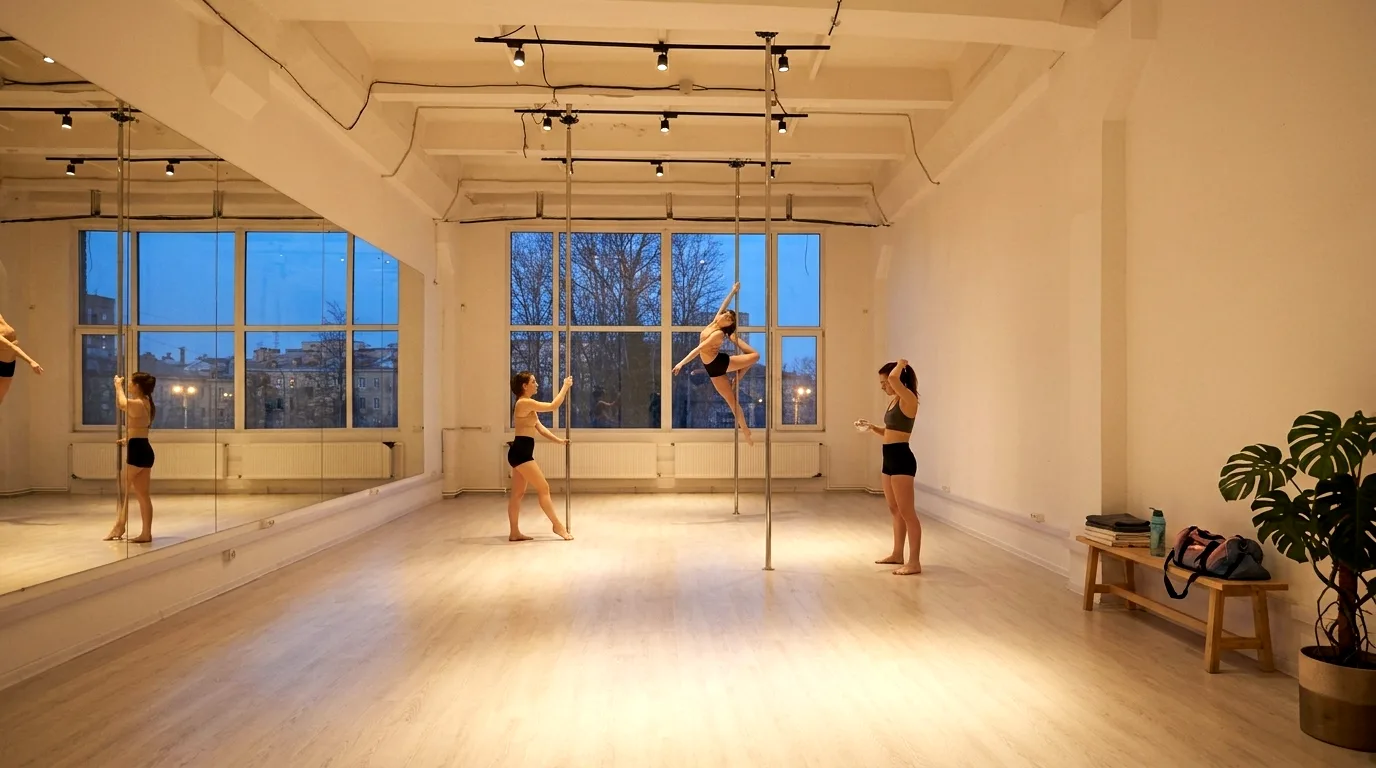
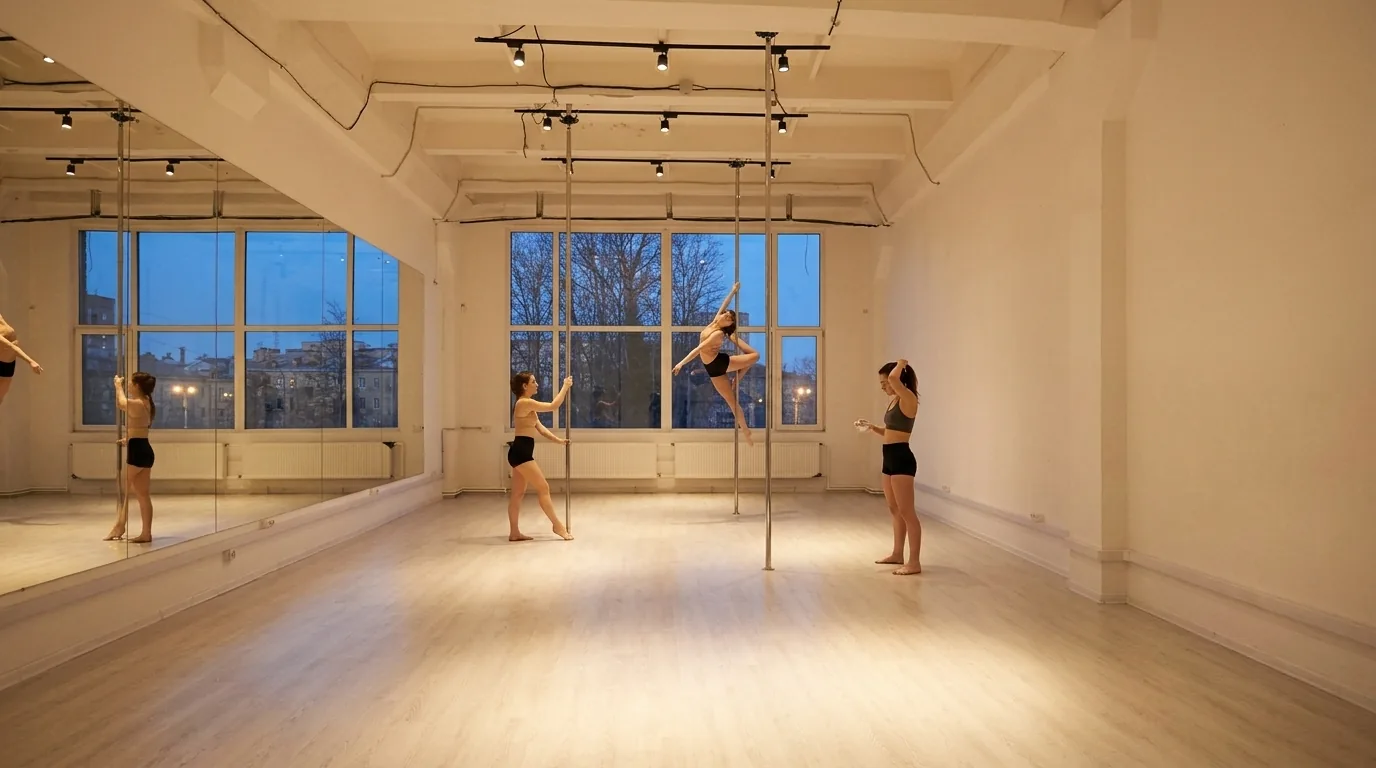
Правки Софии 27.11: без плашки «чемпионка России» и полосы цифр, картинка зала без скамейки и цветка, описание зала её словами, «Начинающие» вместо «Новичок», вице-чемпионы мира у Софии и Романа, 3 пилона и до 6 человек, блок «Очень важно» с правилами отмены и оплаты

Changed region(s): [[0.7812, 0.5312, 1.0, 1.0], [0.5, 0.3125, 0.5312, 0.375]]

diff --git a/index.html b/index.html
@@ -6,10 +6,10 @@
 <!-- Превью до сдачи: убрать noindex, когда сайт переедет на свой адрес -->
 <meta name="robots" content="noindex, nofollow">
 <title>Olymp Pole: студия пилона на Боровой, Санкт-Петербург</title>
-<meta name="description" content="Студия танца на пилоне Olymp Pole в Петербурге, Боровая ул., 116. Pole sport для новичков, продолжающих и профи: расписание, свободные места, цены и запись онлайн.">
+<meta name="description" content="Студия танца на пилоне Olymp Pole в Петербурге, Боровая ул., 116. Pole sport для начинающих, продолжающих и профи: расписание, свободные места, цены и запись онлайн.">
 <meta property="og:type" content="website">
 <meta property="og:title" content="Olymp Pole: студия пилона на Боровой">
-<meta property="og:description" content="Pole sport для новичков, продолжающих и профи. Расписание, свободные места и запись без звонка">
+<meta property="og:description" content="Pole sport для начинающих, продолжающих и профи. Расписание, свободные места и запись без звонка">
 <meta property="og:image" content="https://maltode.github.io/olymp-pole/og.jpg">
 <meta property="og:image:width" content="1200"><meta property="og:image:height" content="630">
 <meta name="theme-color" content="#14100E">
@@ -22,7 +22,7 @@
   "@context": "https://schema.org",
   "@type": "SportsActivityLocation",
   "name": "Olymp Pole",
-  "description": "Студия танца на пилоне: pole sport для новичков, продолжающих и профи",
+  "description": "Студия танца на пилоне: pole sport для начинающих, продолжающих и профи",
   "url": "https://maltode.github.io/olymp-pole/",
   "image": "https://maltode.github.io/olymp-pole/img/zal-vecher.webp",
   "telephone": "+79602408032",
@@ -47,10 +47,9 @@
     <div>
       <p class="kik"><span class="status" id="seychas">Каждый день 8:00–22:00</span></p>
       <h1>Студия пилона <em>на Боровой</em></h1>
-      <p class="znak"><svg viewBox="0 0 24 24" fill="none" stroke="currentColor" stroke-width="2" stroke-linecap="round" stroke-linejoin="round" aria-hidden="true"><path d="M6 9H4.5a2.5 2.5 0 0 1 0-5H6"/><path d="M18 9h1.5a2.5 2.5 0 0 0 0-5H18"/><path d="M4 22h16"/><path d="M10 14.66V17c0 .55-.47.98-.97 1.21C7.85 18.75 7 20.24 7 22"/><path d="M14 14.66V17c0 .55.47.98.97 1.21C16.15 18.75 17 20.24 17 22"/><path d="M18 2H6v7a6 6 0 0 0 12 0V2Z"/></svg><span>Руководитель студии: чемпионка России по pole sport</span></p>
     </div>
     <div>
-      <p class="lead">Pole sport в Петербурге для новичков, продолжающих и профи. Выберите группу, посмотрите свободные места и запишитесь за минуту, без звонка.</p>
+      <p class="lead">Pole sport в Петербурге для начинающих, продолжающих и профи. Выберите группу, посмотрите свободные места и запишитесь за минуту, без звонка.</p>
       <div class="hero-knopki"><a class="btn" href="#raspisanie">Записаться на занятие</a><a class="ssylka" href="#ceny">Цены и абонементы</a></div>
     </div>
   </div>
@@ -63,15 +62,6 @@
   </ul>
 </div></section>
 
-<section class="cifry" aria-label="Студия в цифрах"><div class="wrap">
-  <ul class="cifry-setka">
-    <li class="rv"><b>12 лет</b><span>тренерский стаж Софии, руководителя студии</span></li>
-    <li class="rv"><b>3 уровня</b><span>от первого занятия с нуля до профи</span></li>
-    <li class="rv"><b id="cifra-grupp">11 групп</b><span>в неделю, утром и вечером</span></li>
-    <li class="rv"><b>3 тренера</b><span>София, Карина и Роман</span></li>
-  </ul>
-</div></section>
-
 <section class="studiya" id="studiya"><div class="wrap studiya-setka">
   <div class="rv">
     <p class="kik">Студия танца на пилоне</p>
@@ -81,7 +71,7 @@
     </blockquote>
     <p class="pod">Добро пожаловать в Olymp Pole, студию с уникальной историей. Мы на Боровой, 116, на третьем этаже.</p>
   </div>
-  <figure class="foto-zal rv"><img src="img/zal-piloni.webp" width="1200" height="900" loading="lazy" alt="Пилоны в зале Olymp Pole"><figcaption>Зал студии: светлый, с окнами во всю стену</figcaption></figure>
+  <figure class="foto-zal rv"><img src="img/zal-piloni.webp" width="1200" height="900" loading="lazy" alt="Пилоны в зале Olymp Pole"><figcaption>Зал оборудован тремя пилонами от компании pole 4 you. Два пилона диаметром 42 мм и один 45 мм. В зале имеются татами и креш-мат. Высота пилонов 4 м. Покрытие пола: ламинат. Расположение пилонов в зале точно имитирует условия соревновательной площадки.</figcaption></figure>
 </div></section>
 
 <section class="urovni" id="urovni"><div class="wrap">
@@ -89,7 +79,7 @@
     <p class="pod">Выберите уровень, и в расписании останутся только ваши группы.</p></div>
   <div class="vybor rv">
     <div class="stupeni" role="radiogroup" aria-label="Уровень">
-      <button type="button" class="st" role="radio" aria-checked="false" data-lv="nach"><i>I</i><b>Новичок</b><small>без подготовки</small></button>
+      <button type="button" class="st" role="radio" aria-checked="false" data-lv="nach"><i>I</i><b>Начинающие</b><small>без подготовки</small></button>
       <button type="button" class="st" role="radio" aria-checked="false" data-lv="prod"><i>II</i><b>Продолжающие</b><small>рогатка, шолдер, флаг</small></button>
       <button type="button" class="st" role="radio" aria-checked="false" data-lv="profi"><i>III</i><b>Профи</b><small>большинство базовых</small></button>
     </div>
@@ -99,7 +89,7 @@
 
 <section class="ceny" id="ceny"><div class="wrap">
   <div class="zag rv"><p class="kik">Цены</p><h2>Разово <em>или абонементом</em></h2>
-    <p class="pod">Выберите вариант, потом занятие в расписании. Оплата в студии, наличными или переводом.</p></div>
+    <p class="pod">Выберите вариант, потом занятие в расписании. Оплата наличными или переводом, разовые и персональные занятия заранее, за 24 часа до начала.</p></div>
   <div class="tarify rv">
     <div class="tarif" data-t="razovoe"><h3>Разовое занятие</h3><p class="summa">1&nbsp;200&nbsp;₽</p><p>Групповое занятие, 1 час</p>
       <button type="button" class="tarif-kn" data-tarif="razovoe">Выбрать занятие <svg viewBox="0 0 24 24" fill="none" stroke="currentColor" stroke-width="2" stroke-linecap="round" stroke-linejoin="round" aria-hidden="true"><path d="M5 12h14"/><path d="m12 5 7 7-7 7"/></svg></button></div>
@@ -125,7 +115,7 @@
   <div class="paneli">
     <div class="chipy" id="chipy" role="group" aria-label="Уровень">
       <button type="button" class="chip" data-lv-set="" aria-pressed="true">Все уровни</button>
-      <button type="button" class="chip" data-lv-set="nach" aria-pressed="false">Новичок</button>
+      <button type="button" class="chip" data-lv-set="nach" aria-pressed="false">Начинающие</button>
       <button type="button" class="chip" data-lv-set="prod" aria-pressed="false">Продолжающие</button>
       <button type="button" class="chip" data-lv-set="profi" aria-pressed="false">Профи</button>
     </div>
@@ -157,12 +147,20 @@
         <p class="oshibka" id="o-tel" hidden>Проверьте номер: нужно 11 цифр, например +7 900 000-00-00</p>
         <fieldset class="oplata" id="oplata">
           <legend class="leg">Как оплатите</legend>
-          <label class="var"><input type="radio" name="oplata" value="razovoe" checked><span>Разовое занятие <small id="cena-raz">1&nbsp;200&nbsp;₽ в студии</small></span></label>
+          <label class="var"><input type="radio" name="oplata" value="razovoe" checked><span>Разовое занятие <small id="cena-raz">1&nbsp;200&nbsp;₽, оплата за 24 часа до занятия</small></span></label>
           <label class="var"><input type="radio" name="oplata" value="abon"><span>У меня есть абонемент <small id="abon-prim">спишем одно занятие</small></span></label>
           <label class="var"><input type="radio" name="oplata" value="kupit4"><span>Куплю абонемент на 4 занятия <small>4&nbsp;200&nbsp;₽ в студии, это занятие первое</small></span></label>
           <label class="var"><input type="radio" name="oplata" value="kupit8"><span>Куплю абонемент на 8 занятий <small>8&nbsp;000&nbsp;₽ в студии, это занятие первое</small></span></label>
         </fieldset>
         <div class="lovushka" aria-hidden="true"><label for="site">Сайт</label><input id="site" name="site" tabindex="-1" autocomplete="off"></div>
+        <div class="vazhno" role="note">
+          <p class="vazhno-zag"><svg viewBox="0 0 24 24" fill="none" stroke="currentColor" stroke-width="2" stroke-linecap="round" stroke-linejoin="round" aria-hidden="true"><circle cx="12" cy="12" r="10"/><path d="M12 8v4"/><path d="M12 16h.01"/></svg>Очень важно</p>
+          <ul>
+            <li>Выписаться с занятия нужно минимум за 6 часов до его начала. Если вы не отменили запись как минимум за 6 часов до начала, оплата сгорает.</li>
+            <li>Оплата персональных и разовых занятий производится заранее, за 24 часа до начала занятия.</li>
+            <li>Отмена персонального занятия возможна за 24 часа до начала. При отмене менее чем за 24 часа оплата сгорает.</li>
+          </ul>
+        </div>
         <button class="btn btn--shir knopka-otpr" type="submit" id="go">Записаться</button>
         <p class="oshibka" id="o-otpr" hidden></p>
         <p class="melko">Имя и телефон увидит только студия, чтобы подтвердить запись.</p>
@@ -197,6 +195,7 @@ Olymp Pole, Боровая ул., 116, 3 этаж, офис 312.
       <img src="img/sofia.webp" width="800" height="1137" loading="lazy" alt="София, руководитель студии Olymp Pole">
       <h3>София</h3><p class="rol">Руководитель студии</p>
       <ul>
+        <li><svg viewBox="0 0 24 24" fill="none" stroke="currentColor" stroke-width="2" stroke-linecap="round" stroke-linejoin="round" aria-hidden="true"><path d="M20 6 9 17l-5-5"/></svg><span>Вице-чемпионка мира по артистическому пилону</span></li>
         <li><svg viewBox="0 0 24 24" fill="none" stroke="currentColor" stroke-width="2" stroke-linecap="round" stroke-linejoin="round" aria-hidden="true"><path d="M20 6 9 17l-5-5"/></svg><span>Чемпионка России по pole sport</span></li>
         <li><svg viewBox="0 0 24 24" fill="none" stroke="currentColor" stroke-width="2" stroke-linecap="round" stroke-linejoin="round" aria-hidden="true"><path d="M20 6 9 17l-5-5"/></svg><span>Тренерский стаж 12 лет</span></li>
         <li><svg viewBox="0 0 24 24" fill="none" stroke="currentColor" stroke-width="2" stroke-linecap="round" stroke-linejoin="round" aria-hidden="true"><path d="M20 6 9 17l-5-5"/></svg><span>Автор обучающих курсов</span></li>
@@ -219,6 +218,7 @@ Olymp Pole, Боровая ул., 116, 3 этаж, офис 312.
       <img src="img/roman.webp" width="800" height="853" loading="lazy" alt="Роман, тренер по pole sport в Olymp Pole">
       <h3>Роман</h3><p class="rol">Тренер по pole sport</p>
       <ul>
+        <li><svg viewBox="0 0 24 24" fill="none" stroke="currentColor" stroke-width="2" stroke-linecap="round" stroke-linejoin="round" aria-hidden="true"><path d="M20 6 9 17l-5-5"/></svg><span>Вице-чемпион мира по артистическому пилону</span></li>
         <li><svg viewBox="0 0 24 24" fill="none" stroke="currentColor" stroke-width="2" stroke-linecap="round" stroke-linejoin="round" aria-hidden="true"><path d="M20 6 9 17l-5-5"/></svg><span>Тренировочный стаж больше 4 лет, преподаёт больше года</span></li>
         <li><svg viewBox="0 0 24 24" fill="none" stroke="currentColor" stroke-width="2" stroke-linecap="round" stroke-linejoin="round" aria-hidden="true"><path d="M20 6 9 17l-5-5"/></svg><span>Силовые элементы и работа с продолжающими</span></li>
         <li><svg viewBox="0 0 24 24" fill="none" stroke="currentColor" stroke-width="2" stroke-linecap="round" stroke-linejoin="round" aria-hidden="true"><path d="M20 6 9 17l-5-5"/></svg><span>Ставит правильную технику и механику элементов</span></li>
@@ -254,10 +254,10 @@ Olymp Pole, Боровая ул., 116, 3 этаж, офис 312.
   </div>
   <div class="rv">
     <div class="zag"><p class="kik">Вопросы</p><h2>Перед <em>первым разом</em></h2></div>
-    <details><summary>Никогда не занимались. Можно?<svg viewBox="0 0 24 24" fill="none" stroke="currentColor" stroke-width="2" stroke-linecap="round" stroke-linejoin="round" aria-hidden="true"><path d="m6 9 6 6 6-6"/></svg></summary><p>Да. Уровень «Новичок» подходит тем, кто никогда не занимался спортом или занимался немного, специальная подготовка не нужна. Группы для новичков<span id="faq-nach"></span>.</p></details>
-    <details><summary>Сколько человек в группе?<svg viewBox="0 0 24 24" fill="none" stroke="currentColor" stroke-width="2" stroke-linecap="round" stroke-linejoin="round" aria-hidden="true"><path d="m6 9 6 6 6-6"/></svg></summary><p>Не больше <span id="faq-mest">6</span> человек. Иногда по договорённости с учениками занимаются по двое на пилон, тогда мест бывает больше. Сколько осталось, видно в расписании.</p></details>
-    <details><summary>Как оплатить?<svg viewBox="0 0 24 24" fill="none" stroke="currentColor" stroke-width="2" stroke-linecap="round" stroke-linejoin="round" aria-hidden="true"><path d="m6 9 6 6 6-6"/></svg></summary><p>Наличными или переводом в студии. Абонемент можно купить на занятии.</p></details>
-    <details><summary>Не получается прийти. Что делать?<svg viewBox="0 0 24 24" fill="none" stroke="currentColor" stroke-width="2" stroke-linecap="round" stroke-linejoin="round" aria-hidden="true"><path d="m6 9 6 6 6-6"/></svg></summary><p>Если включили напоминания, нажмите «Не смогу» в боте. Или напишите студии во ВКонтакте или Telegram. Место освободится для другого человека.</p></details>
+    <details><summary>Никогда не занимались. Можно?<svg viewBox="0 0 24 24" fill="none" stroke="currentColor" stroke-width="2" stroke-linecap="round" stroke-linejoin="round" aria-hidden="true"><path d="m6 9 6 6 6-6"/></svg></summary><p>Да. Уровень «Начинающие» подходит тем, кто никогда не занимался спортом или занимался немного, специальная подготовка не нужна. Группы для начинающих<span id="faq-nach"></span>.</p></details>
+    <details><summary>Сколько человек в группе?<svg viewBox="0 0 24 24" fill="none" stroke="currentColor" stroke-width="2" stroke-linecap="round" stroke-linejoin="round" aria-hidden="true"><path d="m6 9 6 6 6-6"/></svg></summary><p>В зале 3 пилона. В группе не больше 6 человек (по двое на пилон, по предварительной договорённости с учениками). Сколько мест осталось, видно в расписании.</p></details>
+    <details><summary>Как оплатить?<svg viewBox="0 0 24 24" fill="none" stroke="currentColor" stroke-width="2" stroke-linecap="round" stroke-linejoin="round" aria-hidden="true"><path d="m6 9 6 6 6-6"/></svg></summary><p>Наличными или переводом. Разовые и персональные занятия оплачиваются заранее, за 24 часа до начала. Абонемент можно купить на занятии.</p></details>
+    <details><summary>Не получается прийти. Что делать?<svg viewBox="0 0 24 24" fill="none" stroke="currentColor" stroke-width="2" stroke-linecap="round" stroke-linejoin="round" aria-hidden="true"><path d="m6 9 6 6 6-6"/></svg></summary><p>Отмените запись минимум за 6 часов до начала занятия, иначе оплата сгорает. Если включили напоминания, нажмите «Не смогу» в боте. Или напишите студии во ВКонтакте или Telegram. Место освободится для другого человека.</p></details>
     <details><summary>Как найти студию?<svg viewBox="0 0 24 24" fill="none" stroke="currentColor" stroke-width="2" stroke-linecap="round" stroke-linejoin="round" aria-hidden="true"><path d="m6 9 6 6 6-6"/></svg></summary><p>Боровая улица, 116, третий этаж, офис 312. Карта ниже.</p></details>
   </div>
 </div></section>
@@ -306,6 +306,7 @@ Olymp Pole, Боровая ул., 116, 3 этаж, офис 312.
     <div class="okno-shapka"><h3 id="okno-zag"></h3><button type="button" class="okno-x" id="okno-x" aria-label="Закрыть"><svg viewBox="0 0 24 24" fill="none" stroke="currentColor" stroke-width="2" stroke-linecap="round" stroke-linejoin="round" aria-hidden="true"><path d="M18 6 6 18"/><path d="m6 6 12 12"/></svg></button></div>
     <div id="o-perso" hidden>
       <p class="okno-pod">От 3&nbsp;000&nbsp;₽. Оставьте телефон: студия свяжется и предложит удобное время.</p>
+      <p class="okno-pod">Оплата заранее, за 24 часа до занятия. Отмена возможна за 24 часа до начала, при отмене менее чем за 24 часа оплата сгорает.</p>
       <form id="perso-forma" novalidate>
         <label for="p-imya">Имя</label><input id="p-imya" autocomplete="given-name" maxlength="60" aria-describedby="o-p-imya">
         <p class="oshibka" id="o-p-imya" hidden>Напишите имя</p>

diff --git a/app.js b/app.js
@@ -20,15 +20,15 @@
   var DN = ['вс', 'пн', 'вт', 'ср', 'чт', 'пт', 'сб'];
   var DN_FULL = ['Воскресенье', 'Понедельник', 'Вторник', 'Среда', 'Четверг', 'Пятница', 'Суббота'];
   var MES = ['января', 'февраля', 'марта', 'апреля', 'мая', 'июня', 'июля', 'августа', 'сентября', 'октября', 'ноября', 'декабря'];
-  var LV = { nach: 'новички', prod: 'продолжающие', profi: 'профи' };
+  var LV = { nach: 'начинающие', prod: 'продолжающие', profi: 'профи' };
   var URS = {
     // описания уровней — слова Софии (ТЗ 26.11, п. 11)
-    nach: { num: 'I', imya: 'Новичок', opis: 'Подходит для людей, которые никогда не занимались спортом или имеют небольшой опыт занятий. Иметь специальную подготовку необязательно.' },
+    nach: { num: 'I', imya: 'Начинающие', opis: 'Подходит для людей, которые никогда не занимались спортом или имеют небольшой опыт занятий. Иметь специальную подготовку необязательно.' },
     prod: { num: 'II', imya: 'Продолжающие', opis: 'Подходит для учеников, владеющих техникой основных базовых элементов (например: рогатка, шолдер, флаг).' },
     profi: { num: 'III', imya: 'Профи', opis: 'Подходит для учеников, уверенно владеющих техникой большинства базовых элементов.' }
   };
   var TARIFY = {
-    razovoe: { imya: 'Разовое занятие', kratko: 'разовое занятие, 1 200 ₽ в студии' },
+    razovoe: { imya: 'Разовое занятие', kratko: 'разовое занятие, 1 200 ₽, оплата за 24 часа до занятия' },
     kupit4: { imya: 'Абонемент на 4 занятия', kratko: 'абонемент на 4 занятия, 4 200 ₽ в студии' },
     kupit8: { imya: 'Абонемент на 8 занятий', kratko: 'абонемент на 8 занятий, 8 000 ₽ в студии' }
   };
@@ -82,7 +82,7 @@
         (gg.length ? '<p class="kik">Группы</p><p>' + gg.map(function (g) { return DN[g.dow] + ' ' + vremya(g.time) + (g.trainer ? ' (' + esc(g.trainer) + ')' : ''); }).join(', ') + '</p>' : '') +
         '<a class="ssylka" href="#raspisanie">Записаться в группу</a>';
     } else {
-      opis.innerHTML = '<p class="kik">Все уровни</p><h3>Выберите свой уровень</h3><p>Нажмите на уровень слева, и в расписании останутся только подходящие группы. Если сомневаетесь, начните с группы для новичков: тренер на занятии подскажет, куда двигаться дальше.</p>';
+      opis.innerHTML = '<p class="kik">Все уровни</p><h3>Выберите свой уровень</h3><p>Нажмите на уровень слева, и в расписании останутся только подходящие группы. Если сомневаетесь, начните с группы для начинающих: тренер на занятии подскажет, куда двигаться дальше.</p>';
     }
   }
 
@@ -158,12 +158,8 @@
       p.textContent = gg.length ? 'Ведёт: ' + gg.map(function (g) { return DN[g.dow] + ' ' + vremya(g.time); }).join(', ') : '';
     });
     var nach = gruppyUrovnya('nach');
-    $('#faq-nach').textContent = nach.length ? ': ' + nach.map(function (g) { return DN[g.dow] + ' ' + vremya(g.time); }).join(' и ') : '';
-    var maxM = Math.max.apply(null, D.groups.map(function (g) { return g.mest; }).concat([0]));
-    if (maxM) $('#faq-mest').textContent = maxM;
-    // «11 групп в неделю» в полосе с цифрами: считаем по настоящему расписанию
-    var n = D.groups.length, a = n % 10, b = n % 100;
-    if (n) $('#cifra-grupp').textContent = n + ' ' + ((a === 1 && b !== 11) ? 'группа' : (a >= 2 && a <= 4 && (b < 12 || b > 14)) ? 'группы' : 'групп');
+    var spis = nach.map(function (g) { return DN[g.dow] + ' ' + vremya(g.time); });
+    $('#faq-nach').textContent = spis.length ? ': ' + (spis.length > 1 ? spis.slice(0, -1).join(', ') + ' и ' + spis[spis.length - 1] : spis[0]) : '';
   }
 
   // ---------- выбранный тариф ----------
@@ -188,7 +184,7 @@
     $('#vybrano').innerHTML = '<b>' + dataLong(g.date) + ', ' + vremya(g.time) + '–' + vremya(g.end) + '</b><span>' + esc(g.title) + ' · ' + levelText(g.level) +
       (g.trainer ? ' · ' + esc(g.trainer) : '') + ' · ' + (g.free ? 'свободно ' + g.free + ' ' + mest(g.free) : 'мест нет, лист ожидания') + '</span>';
     $('#go').textContent = g.free ? 'Записаться' : 'Встать в лист ожидания';
-    $('#cena-raz').textContent = rub(g.price) + ' в студии';
+    $('#cena-raz').textContent = rub(g.price) + ', оплата за 24 часа до занятия';
     var bezAbon = !g.abon;
     $$('input[name=oplata]').forEach(function (r) { if (r.value !== 'razovoe') r.disabled = bezAbon; });
     if (bezAbon) document.querySelector('input[name=oplata][value=razovoe]').checked = true;

diff --git a/kabinet/kabinet.js b/kabinet/kabinet.js
@@ -37,7 +37,7 @@
   var DN = ['вс', 'пн', 'вт', 'ср', 'чт', 'пт', 'сб'];
   var DN_FULL = ['Воскресенье', 'Понедельник', 'Вторник', 'Среда', 'Четверг', 'Пятница', 'Суббота'];
   var MES = ['января', 'февраля', 'марта', 'апреля', 'мая', 'июня', 'июля', 'августа', 'сентября', 'октября', 'ноября', 'декабря'];
-  var LV = { nach: 'новички', prod: 'продолжающие', profi: 'профи' };
+  var LV = { nach: 'начинающие', prod: 'продолжающие', profi: 'профи' };
   var OPL = { razovoe: 'разовое', abon: 'по абонементу', kupit: 'купит абонемент', kupit4: 'купит абонемент на 4', kupit8: 'купит абонемент на 8', admin: 'добавлена вручную' };
   function esc(s) { return String(s == null ? '' : s).replace(/[&<>"]/g, function (c) { return { '&': '&amp;', '<': '&lt;', '>': '&gt;', '"': '&quot;' }[c]; }); }
   function d(iso) { return new Date(iso + 'T00:00:00Z'); }

diff --git a/style.css b/style.css
@@ -449,3 +449,10 @@ body.okno-otkryto{overflow:hidden}
 @media (min-width:600px){.den .den-n{display:block}}
 .den{min-height:64px}
 @media (min-width:600px){.den{min-height:80px}}
+
+/* 27.11, правки Софии: блок «Очень важно» в форме записи (правила отмены и оплаты) */
+.vazhno{margin-top:24px;padding:16px;border:1px solid var(--gold);border-radius:var(--r);background:var(--acc-soft)}
+.vazhno-zag{display:flex;align-items:center;gap:8px;font-weight:600;color:var(--acc-d);margin-bottom:8px}
+.vazhno ul{display:grid;gap:8px}
+.vazhno li{position:relative;padding-left:16px;font-size:var(--fs);line-height:1.55}
+.vazhno li::before{content:'';position:absolute;left:0;top:.65em;width:6px;height:6px;border-radius:50%;background:var(--gold)}
